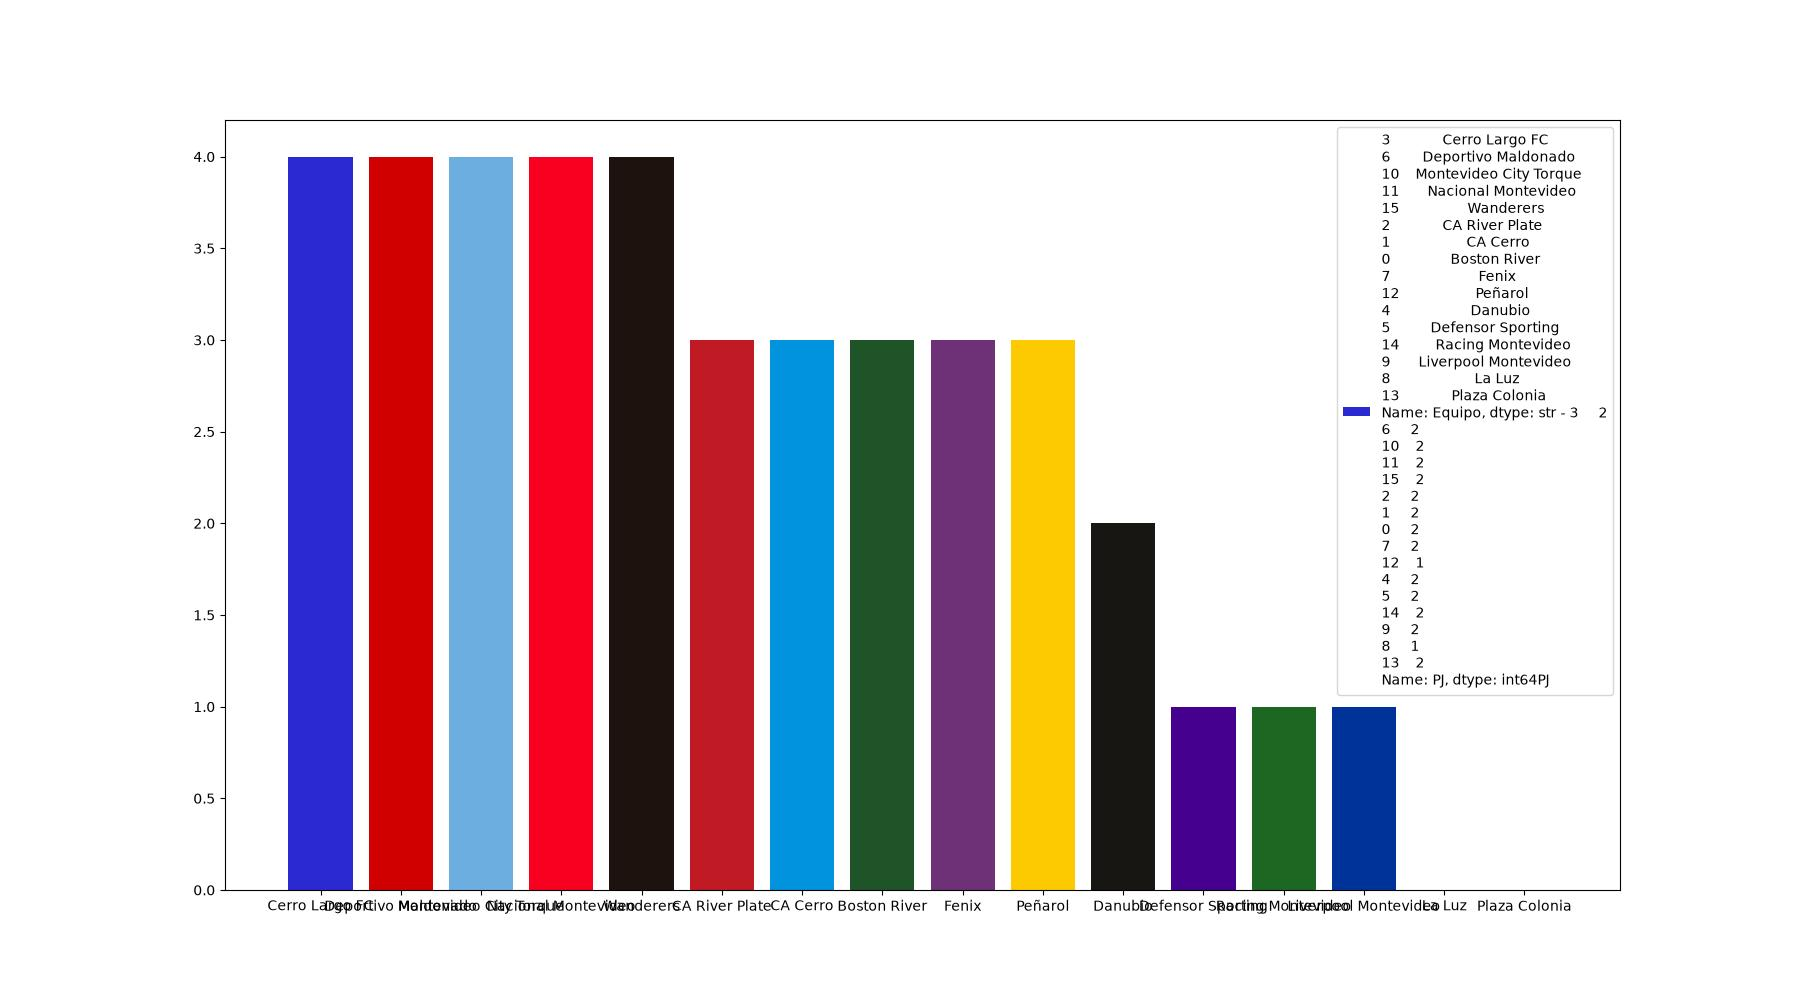
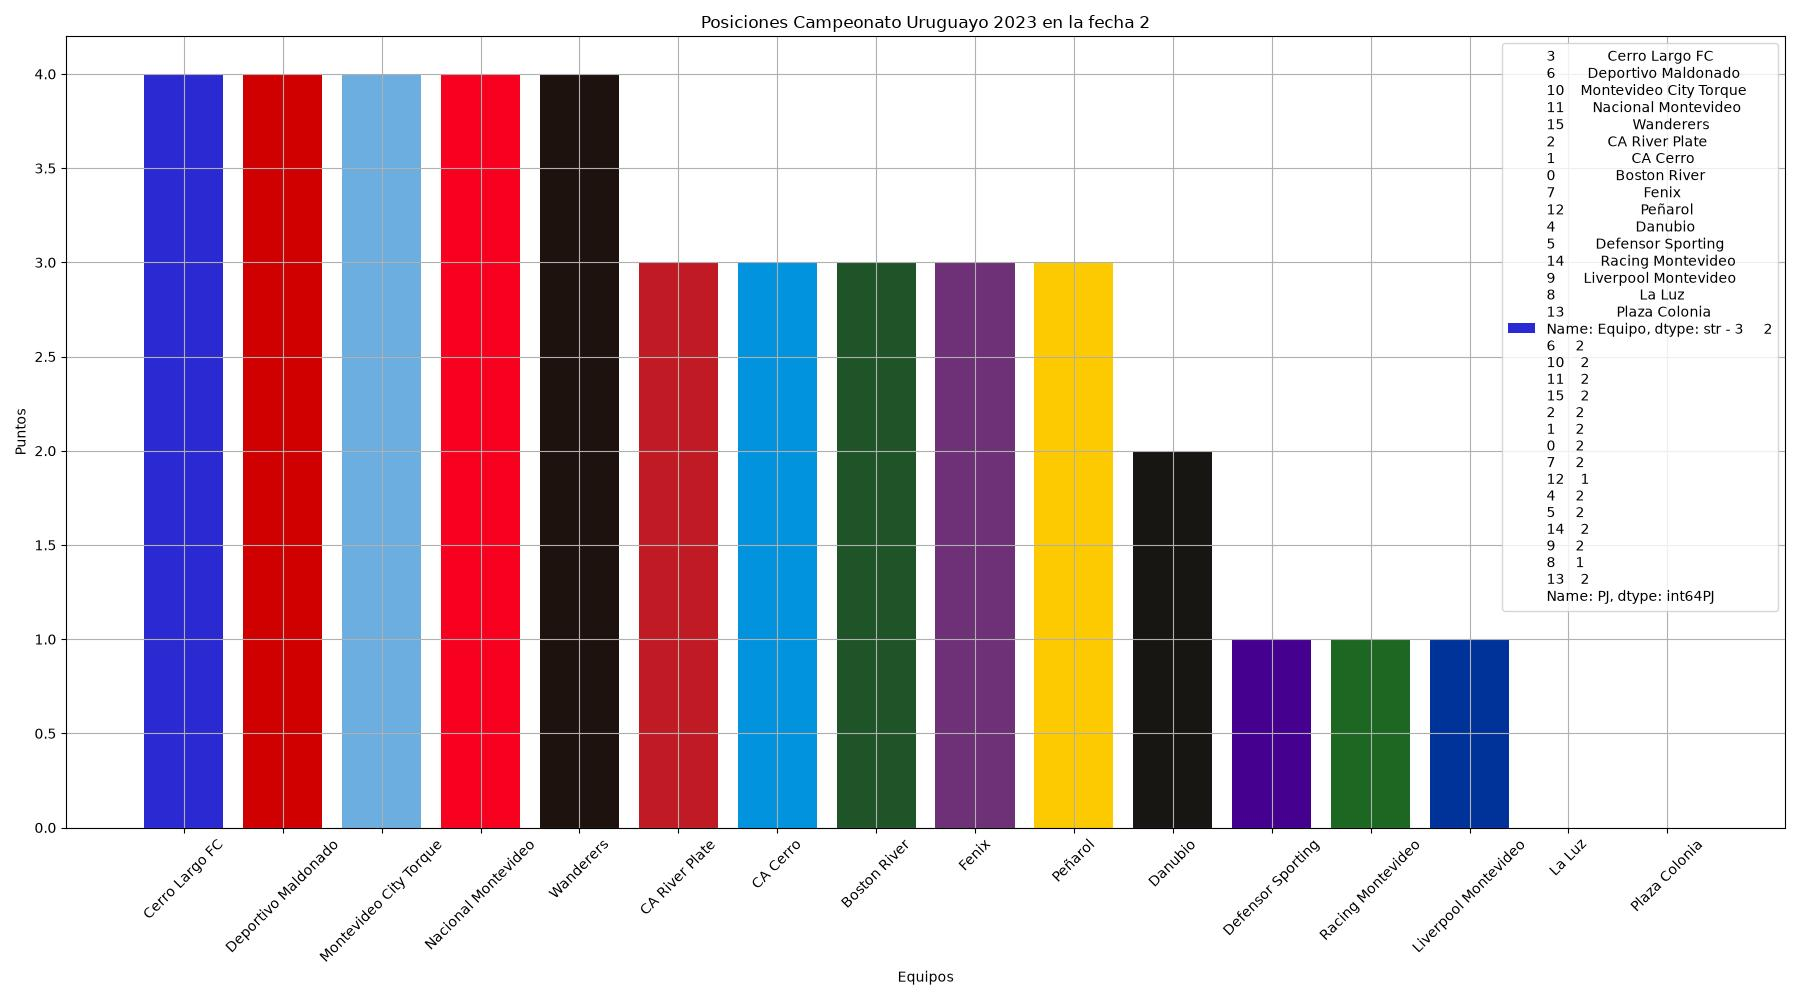
Actualizacion de la graficas.

diff --git a/partidos_temporadas.py b/partidos_temporadas.py
@@ -111,5 +111,11 @@ colores_barras = [colores_equipos[label] for label in tabla_posiciones['Equipo']
 # Grafica
 plt.figure(figsize=(18,10))
 plt.bar(tabla_posiciones['Equipo'], tabla_posiciones['Puntos'], color=colores_barras, label=f"{tabla_posiciones['Equipo']} - {tabla_posiciones['PJ']}PJ")
+plt.title("Posiciones Campeonato Uruguayo 2023 en la fecha 2")
+plt.xlabel("Equipos")
+plt.ylabel("Puntos")
+plt.xticks(rotation=45)
 plt.legend()
+plt.grid()
+plt.tight_layout()
 plt.savefig("Imagenes/Posiciones.jpg")
